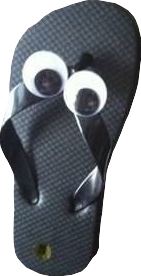
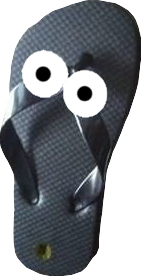
backor update *scary*, startMenu closed when clicked elsewhere

diff --git a/index.html b/index.html
@@ -46,7 +46,7 @@
                 </form>
             </div>
             <div id="taskBar" class="unselectable">
-                <div id="startMenu">
+                <div id="startMenu" tabindex="-1">
                     <div id="appList"></div>
                     <div id="sideBar">
                         <div id="MoreBTN" class="start_sidebar_btns">
@@ -92,7 +92,7 @@
                     <div class="app_container" id="app_container" style="display: flex;margin: 2%;"></div>
                     <appBuild title="LEVEL1.exe" icon="LIGHT/icon1.png" backgroundColor="radial-gradient(circle at 10% 20%, rgb(151, 10, 130) 0%, rgb(33, 33, 33) 100.2%)">
                         <div class="levelStart level1start">
-                            <button onclick="new SystemPermissionPopup('moje aplikace 1', 'document.querySelector(\'.level1start\').style.display = \'none\'').show();">START THE LEVEL</button>
+                            <button onclick="new SystemPermissionPopup('moje aplikace 1', 'document.querySelector(\'.level1start\').style.display = \'none\';changeLang(\'ascii\');').show()">START THE LEVEL</button>
                         </div>
                         <div class="levelContent">
                             <h1 class="asciiHash textOverflow1Line levelHeader">LEVEL1</h1>
@@ -244,7 +244,7 @@
                     </select>
                 </div>
             </appBuild>
-            <appBuild title="*jmeno_uzivatele*@spspurkynova" backgroundColor="#0c0c0c" scroll="Y">
+            <appBuild title="*jmeno_uzivatele*@spspurkynova" backgroundColor="#0c0c0c" scroll="Y" icon="terminal.png">
                 <div class="console">
                     <div class="copyright">
                         Backora OS [Version 10.0.19045.2486] <br>
@@ -281,9 +281,7 @@
                     <div class="fe_folders">D</div>
                     <div class="fe_folders">E</div>
                     <div class="fe_folders">F</div>
-                    <div class="fe_folders">G</div>
-
-                    
+                    <div class="fe_folders">G</div>  
                 </div>
             </appBuild>
             <appBuild title="BACKOR Store" icon="store.png" backgroundColor="#a0a5b7" scroll="">
@@ -345,6 +343,8 @@
                     <img class="PanBackorImg" draggable="false" src="images/Backor.png" title="Ahoj jsem pan Bačkor!">
                     <div class="eye" id="eye1"></div>
                     <div class="eye" id="eye2"></div>
+                    <div class="eyeLid" id="eyeLid1"></div>
+                    <div class="eyeLid" id="eyeLid2"></div>
                 </div>
                 <div class="text">
                     <a id="PanBackorDialogText">Jsem pan Bačkor!</a>

diff --git a/css/panBackor.css b/css/panBackor.css
@@ -32,7 +32,7 @@
     right: 29%;
     width: 40%;
     aspect-ratio: 1;
-    background: #000;
+    background: black;
     border-radius: 50%;
     content: " ";
 }
@@ -66,12 +66,69 @@
       background: white;
       top: 16%;
       left: 11%;
-      scale: 0.75;
+      scale: 0.8;
+      /* animation: 10s infinite linear delejMrkni; */
   
   }
+    
   #eye2 {
   
   top: 23% !important;
   left: 39% !important;
   
+  }
+  #PanBackorGUI .eyeLid { /*eye lid*/
+    position: absolute;
+    display: inline-block;
+    border-radius: 50%;
+    height: 22%;
+    aspect-ratio: 1;
+    background: transparent;
+    top: 16%;
+    left: 11%;
+    scale: 0.8;
+    animation: 10s infinite linear delejMrkni;
+    z-index: 1;
+  }
+  #eyeLid2 {
+    top: 23% !important;
+    left: 39% !important;
+  }
+  @keyframes delejMrkni {
+    0% {
+       background: transparent;
+    }
+    84.99% {
+       background: transparent;
+    }
+    85% {
+        background: linear-gradient(180deg, rgba(75,82,92,1) 0%, rgba(75,82,92,1) 1%, transparent 2%, transparent 100%);
+    }
+    87% {
+        background: linear-gradient(180deg, rgba(75,82,92,1) 0%, rgba(75,82,92,1) 20%, transparent 21%, transparent 100%);
+    }
+    89% {
+        background: linear-gradient(180deg, rgba(75,82,92,1) 0%, rgba(75,82,92,1) 40%, transparent 41%, transparent 100%);
+    }
+    90% {
+        background: linear-gradient(180deg, rgba(75,82,92,1) 0%, rgba(75,82,92,1) 70%, transparent 71%, transparent 100%);
+    }
+    92% {
+        background: linear-gradient(180deg, rgba(75,82,92,1) 0%, rgba(75,82,92,1) 85%, transparent 86%, transparent 100%);
+    }
+    93% {
+        background: linear-gradient(180deg, rgba(75,82,92,1) 0%, rgba(75,82,92,1) 98%, transparent 99%, transparent 100%);
+    }
+    95% {
+        background: linear-gradient(180deg, rgba(75,82,92,1) 0%, rgba(75,82,92,1) 85%, transparent 86%, transparent 100%);
+    }
+    97% {
+        background: linear-gradient(180deg, rgba(75,82,92,1) 0%, rgba(75,82,92,1) 70%, transparent 71%, transparent 100%);
+    }
+    99% {
+        background: linear-gradient(180deg, rgba(75,82,92,1) 0%, rgba(75,82,92,1) 40%, transparent 41%, transparent 100%);
+    }
+    100% {
+        background: linear-gradient(180deg, rgba(75,82,92,1) 0%, rgba(75,82,92,1) 1%, transparent 2%, transparent 100%);
+    }
   }

diff --git a/js/PanBackor.js b/js/PanBackor.js
@@ -42,7 +42,7 @@ changePanBackorDialog(currentPanBackorDialog);
 
 // move eyes with mouse
 
-$("body").mousemove(function(event) {
+$("#contentDisplay").mousemove(function(event) {
     var eye = $(".eye");
     // console.log('eye', eye);
     var x = (eye.offset().left) + (eye.width() / 2);
@@ -54,5 +54,17 @@ $("body").mousemove(function(event) {
         '-moz-transform': 'rotate(' + rot + 'deg)',
         '-ms-transform': 'rotate(' + rot + 'deg)',
         'transform': 'rotate(' + rot + 'deg)'
+    });
+});
+$("#contentDisplay").mouseleave(function(event) {
+    var eye = $(".eye");
+    eye.css({
+        'display': 'none'
+    });
+});
+$("#contentDisplay").mouseenter(function(event) {
+    var eye = $(".eye");
+    eye.css({
+        'display': 'block'
     });
 });

diff --git a/js/Window.js b/js/Window.js
@@ -406,6 +406,11 @@ function openStartMenu(){
     }
 }
 
+let startMenu = document.getElementById("startMenu");
+startMenu.addEventListener('blur', function(e){openStartMenu(); console.log('blur MENU')});
+
 startBTN.onclick = function(e){
     openStartMenu();
+    startMenu.focus();
+    
 }

diff --git a/css/screen.css b/css/screen.css
@@ -89,6 +89,7 @@
     width: 40%;
     bottom: -1200%;
     background-color: #074c68;
+    outline: none;
 }
 
 #startMenu #sideBar{
